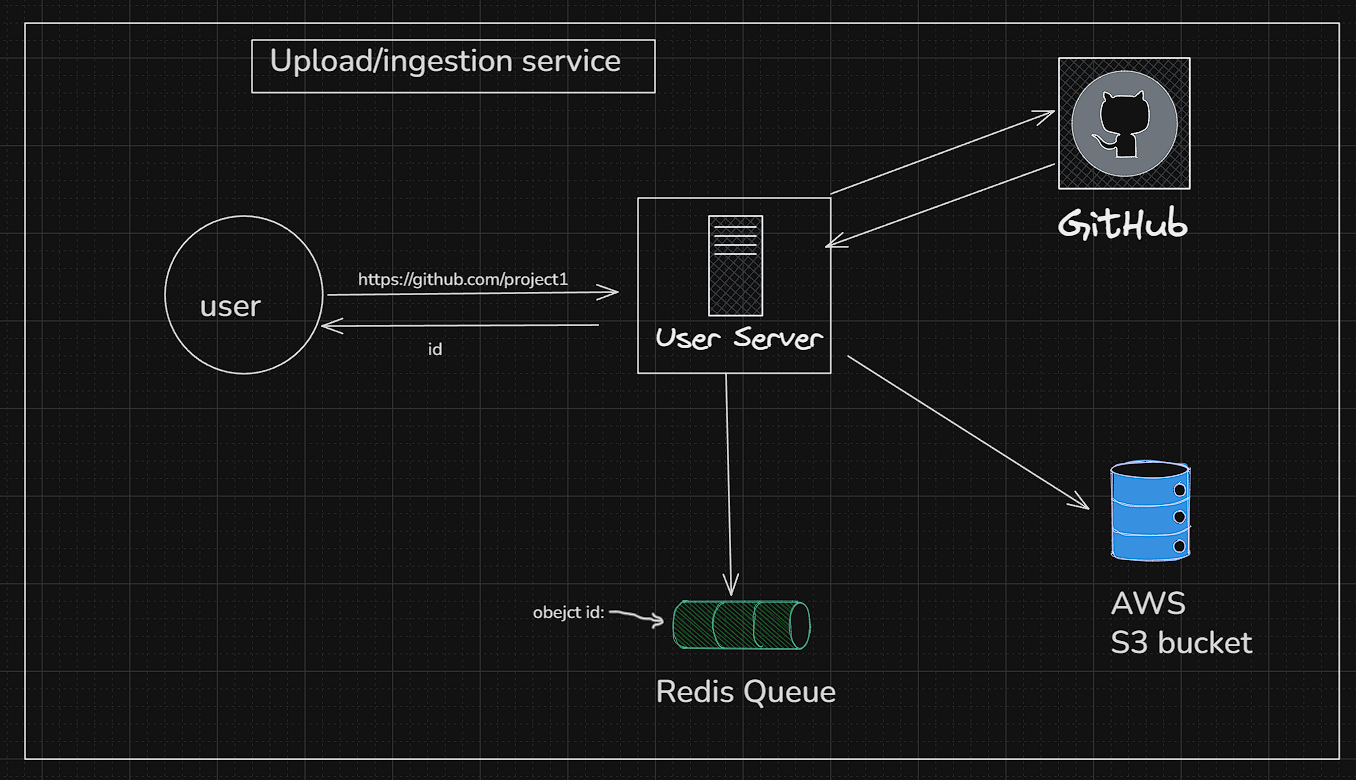
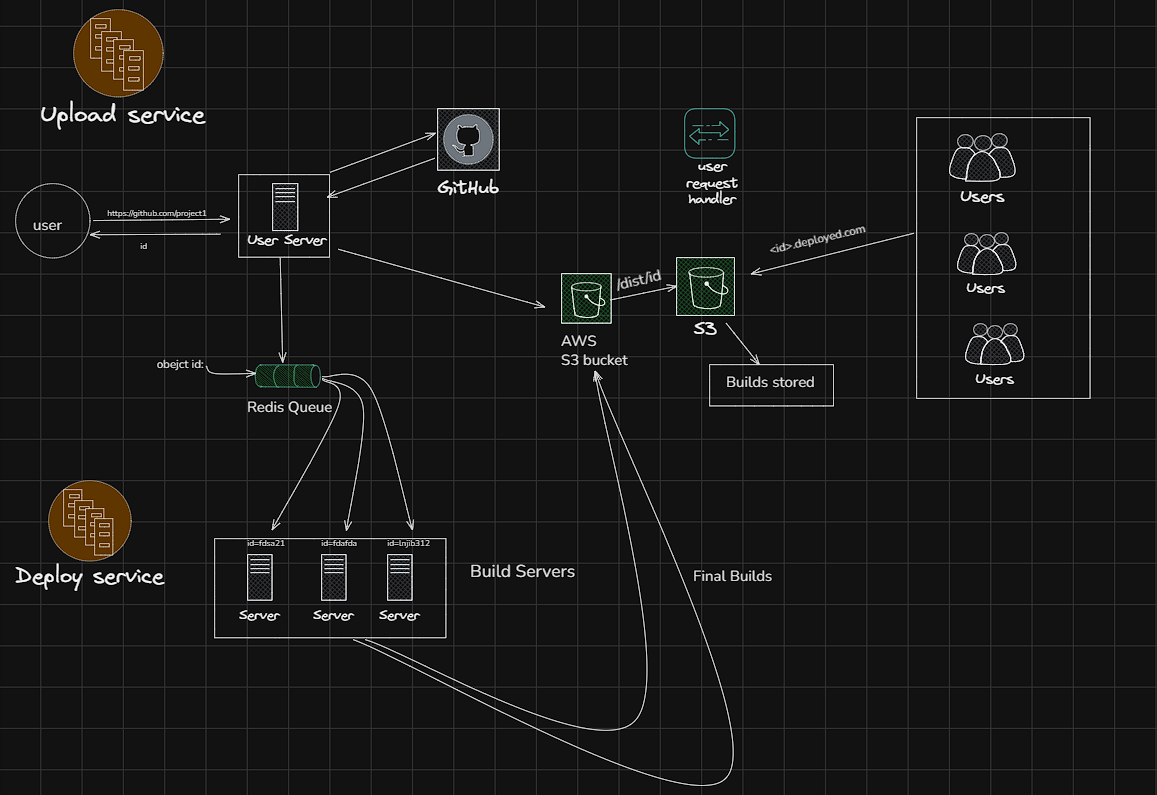
req : some public assets  for readme

diff --git a/README.md b/README.md
@@ -24,6 +24,8 @@ Each service plays a distinct role:
 
 ## Architecture Diagram
 
+![alt text](image-1.png)
+
 ```text
                          +---------------------+
                          |   Frontend (3002)   |
@@ -79,7 +81,7 @@ Each service plays a distinct role:
 ---
 
 ## 1. Ingestion Service Architecture
-![alt text](image-1.png)
+![alt text](image-3.png)
 
 ### What it does
 
@@ -128,6 +130,8 @@ Redis provides a simple asynchronous handoff between ingestion and build worker.
 
 ## 2. Deploy Service Architecture
 
+![alt text](image-4.png)
+
 ### What it does
 
 The deploy service is a worker that builds the repository and publishes the final site assets.
@@ -172,6 +176,7 @@ This separation keeps raw source and built site assets distinct.
 ---
 
 ## 3. Request Handler Architecture
+![alt text](image-5.png)
 
 ### What it does
 